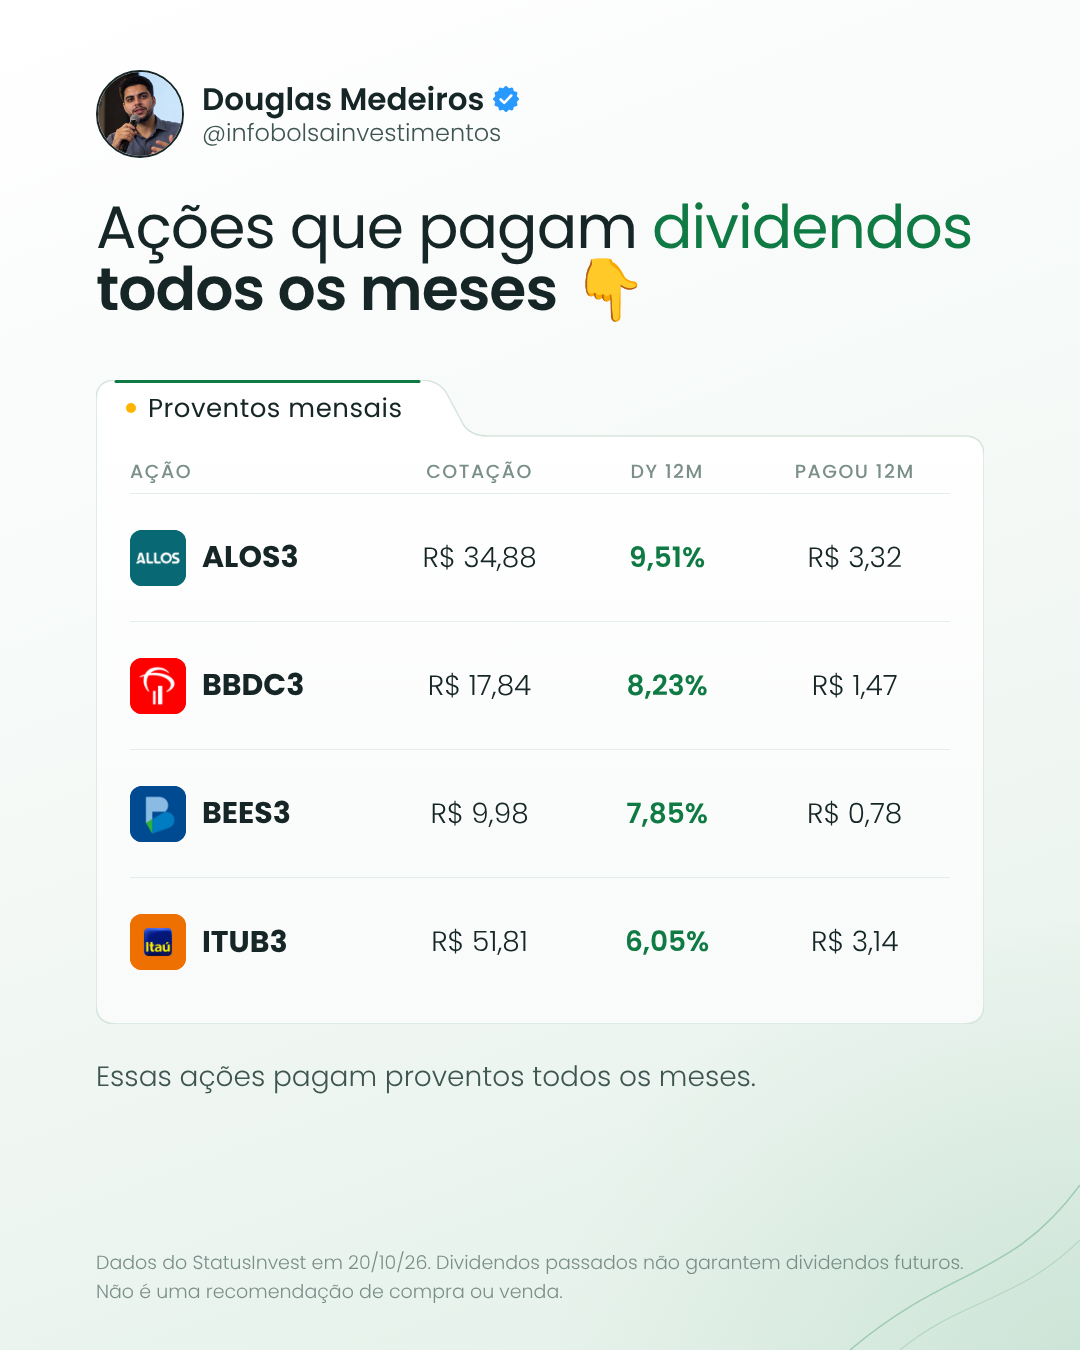
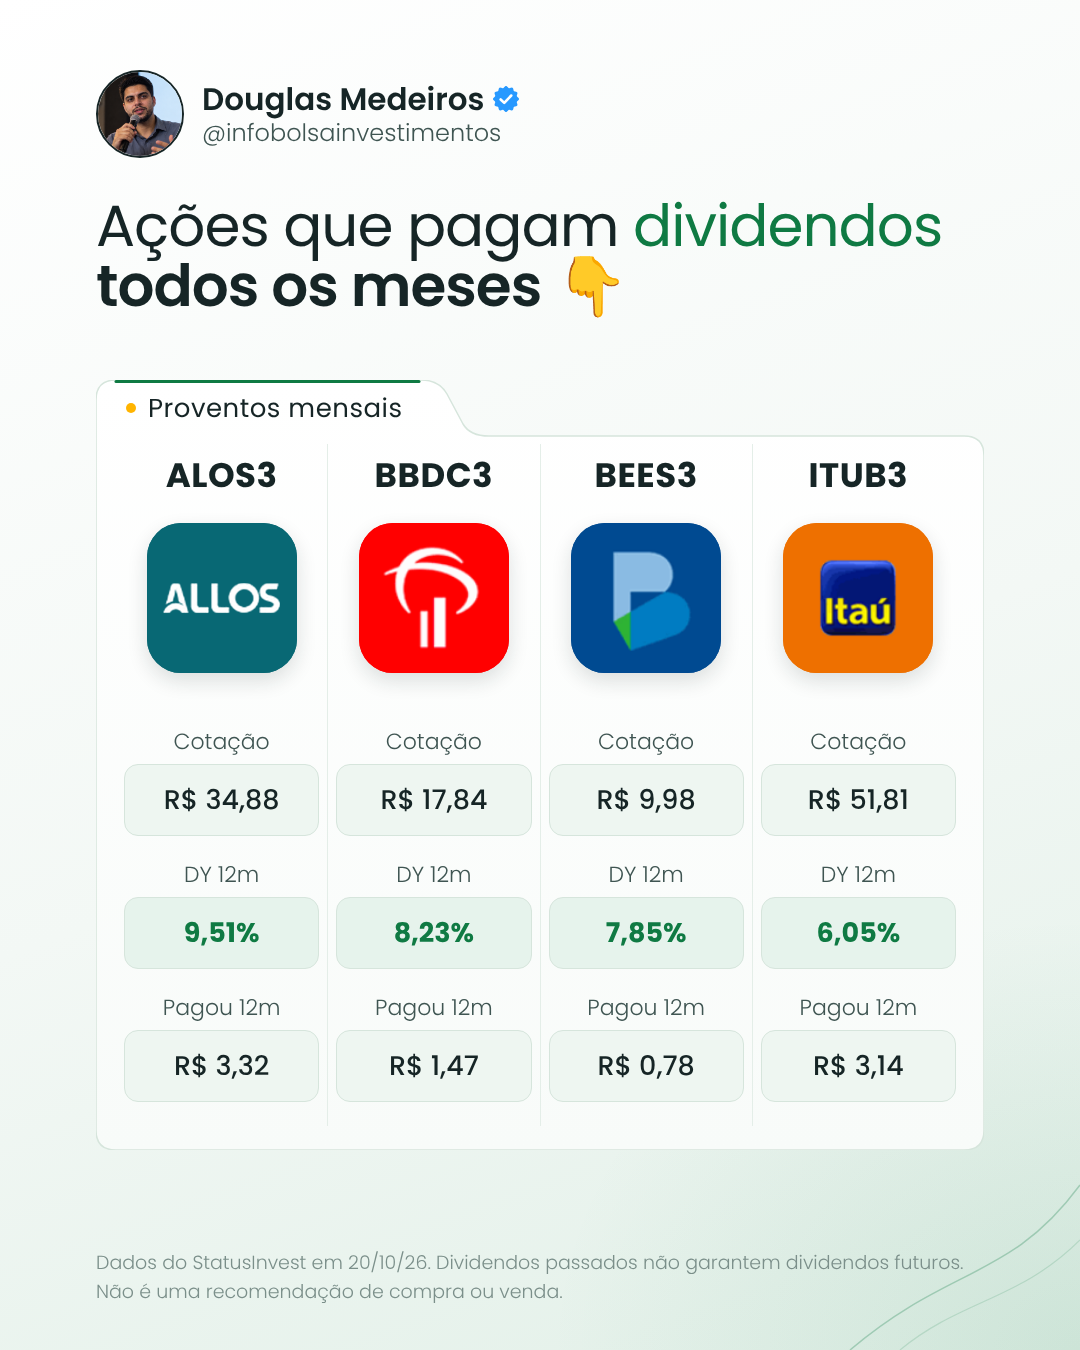
Post mensais: layout em colunas (novo tipo colunas)
Claude-Session: https://claude.ai/code/session_01V4Ut9U2W4uPbxLAyJQKmJH

diff --git a/kit/gen_inst.py b/kit/gen_inst.py
@@ -115,6 +115,16 @@ body{position:relative;font-family:"P",sans-serif;font-weight:300;color:var(--fg
 .acoes{position:absolute;left:96px;right:96px;display:flex;gap:16px}
 .acoes div{flex:1;text-align:center;border:1px solid var(--borda);background:var(--card1);border-radius:18px;padding:16px 10px;font-size:22px;line-height:1.3;color:var(--sub)}
 .acoes b{display:block;font-size:26px;color:var(--fg);font-weight:600}
+/* colunas (estilo ficha por ativo) */
+.cl{position:absolute;top:64px;left:20px;right:20px;bottom:24px;display:flex}
+.cl .co{flex:1;display:flex;flex-direction:column;align-items:center;border-left:1.5px solid var(--linha);padding:0 8px}
+.cl .co:first-child{border-left:none}
+.cl .tk4{font-weight:700;font-size:34px;letter-spacing:.5px;margin-top:6px}
+.cl .lg4{width:150px;height:150px;border-radius:34px;overflow:hidden;margin:22px 0 30px;box-shadow:0 8px 20px rgba(22,37,38,.14)}
+.cl .lg4 img{width:100%;height:100%;object-fit:cover}
+.cl .rt{font-size:22px;color:var(--sub);margin-top:22px}
+.cl .vl4{width:100%;margin-top:6px;border-radius:14px;background:var(--chip);border:1px solid var(--borda);text-align:center;font-size:27px;font-weight:500;padding:15px 0;font-variant-numeric:tabular-nums}
+.cl .vl4.dst{color:var(--acc);font-weight:700;background:#e6f3ec}
 /* prefere */
 .pf-t{position:absolute;top:220px;left:60px;right:60px;text-align:center}
 .pf-t h1{font-weight:500;font-size:var(--tsize,96px);line-height:1.05;letter-spacing:-1.5px}
@@ -322,6 +332,22 @@ def build_pizza(c, tema):
         rot += f'<div style="position:absolute;left:{tx-80:.1f}px;top:{ty-16:.1f}px;width:160px;text-align:center;font-weight:600;font-size:23px;letter-spacing:.5px;color:var(--fg)">{tk}</div>'
     corpo = (f'<svg style="position:absolute;left:0;top:0" width="1080" height="1350">{svg}</svg>{logos}{rot}'
              f'<div style="position:absolute;left:96px;right:96px;top:{cy + R + 92}px;text-align:center;font-size:34px;color:var(--fg)">{c["fixo"]}</div>')
+    return pagina(tema, c["titulo"], c.get("sub", ""), corpo, c["rodape"], tsize=c.get("tsize", 72))
+
+
+def build_colunas(c, tema):
+    """cfg: titulo, sub, aba, top, h, fim, rodape, colunas [{tk, logo, cor, itens [[rotulo, valor]]}], destaque (índice do item)."""
+    cols = ""
+    for col in c["colunas"]:
+        it = "".join(f'<div class="rt">{r}</div><div class="vl4{" dst" if i == c.get("destaque") else ""}">{v}</div>'
+                     for i, (r, v) in enumerate(col["itens"]))
+        cols += (f'<div class="co"><div class="tk4">{col["tk"]}</div>'
+                 f'<div class="lg4" style="background:{col["cor"]}"><img src="assets/logos_b3/{col["logo"]}.png"></div>{it}</div>')
+    top = c.get("top", 400)
+    h = c.get("h", 640)
+    corpo = pasta(top, h, c.get("aba", "Comparativo"), f'<div class="cl">{cols}</div>', tema)
+    if c.get("fim"):
+        corpo += f'<div class="fim" style="top:{top + h + 34}px">{c["fim"]}</div>'
     return pagina(tema, c["titulo"], c.get("sub", ""), corpo, c["rodape"], tsize=c.get("tsize", 72))
 
 
@@ -604,5 +630,5 @@ if __name__ == "__main__":
         build_semana(c, tema, out)
         sys.exit()
     html = {"pag": build_pag, "vs": build_vs, "fii": build_fii, "tab": build_tab, "socio": build_socio,
-            "segue": build_segue, "top3": build_top3, "seg": build_seg, "pizza": build_pizza, "prefere": build_prefere}[tipo](c, tema)
+            "segue": build_segue, "top3": build_top3, "seg": build_seg, "pizza": build_pizza, "colunas": build_colunas, "prefere": build_prefere}[tipo](c, tema)
     open(out, "w").write(html)
